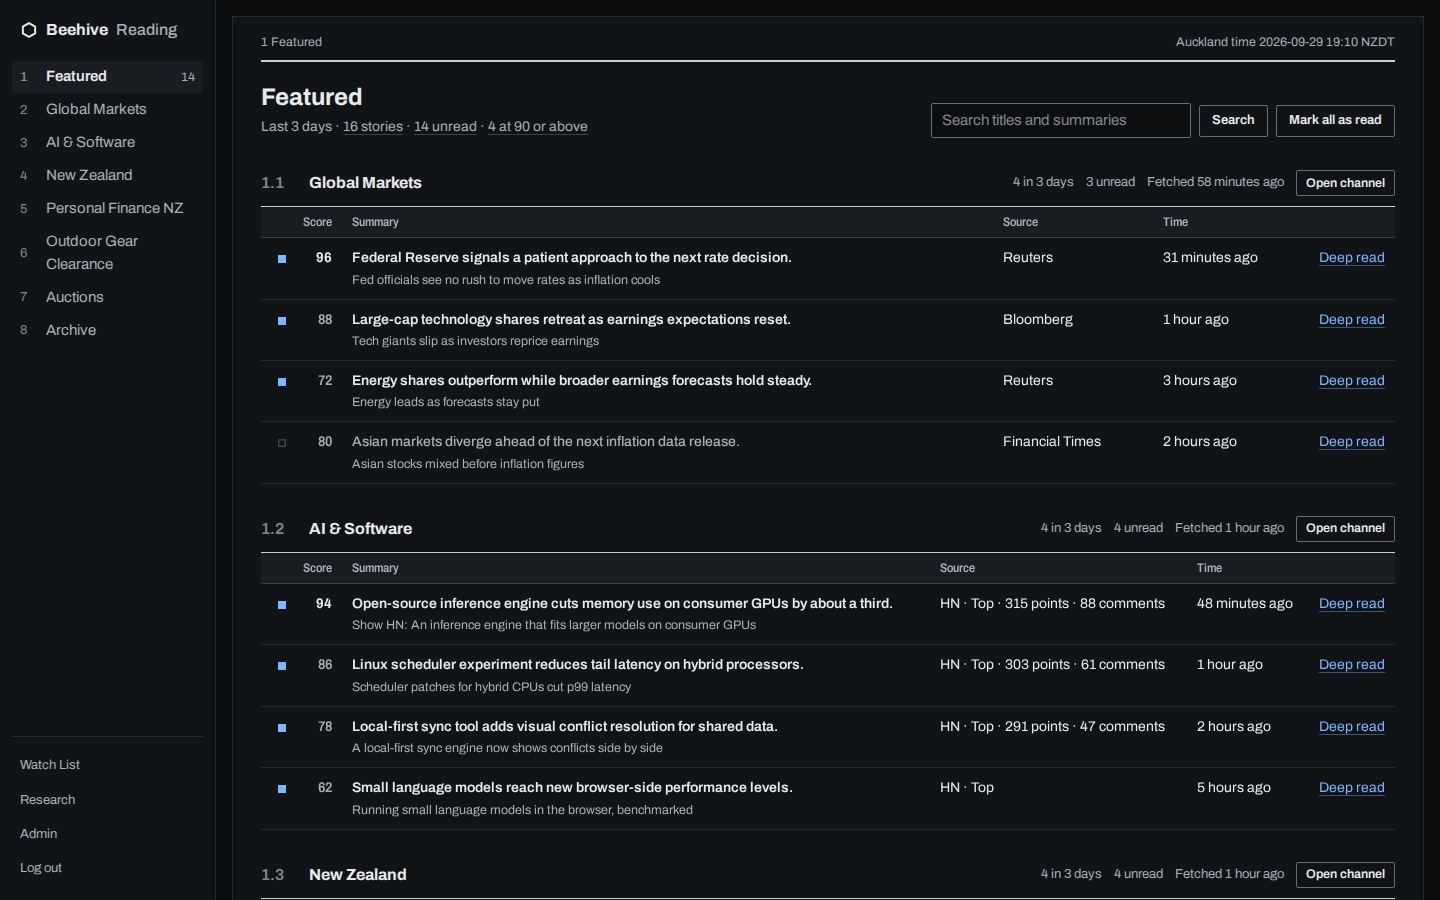
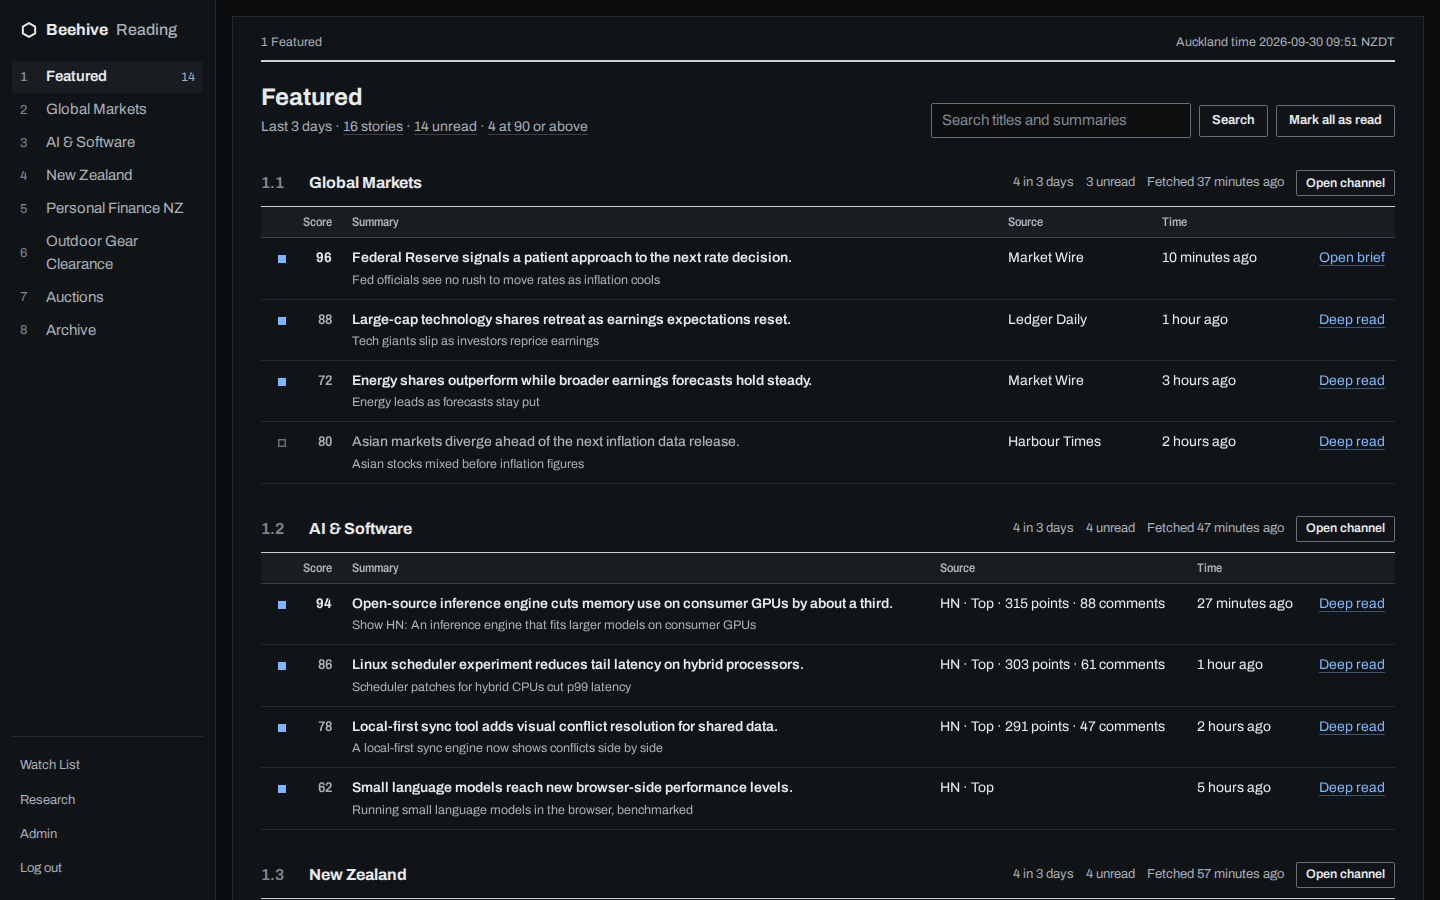
docs: show the new design in the README
A new hero and GitHub social preview in the datasheet design, with its source
in docs/assets/social-card.html. Fresh screenshots of the home desk, a
deep-read brief, a store catalogue and the 2560px layout, all from synthetic
data with fictional outlets. The changelog records the reading redesign and
the link previews and drops the column resizing the old home page had. Two
stray old-design screenshots leave the repository root.

Copilot-Session: 04e1fe32-c9ca-43b2-ac4e-99b35ceb2e0b

diff --git a/docs/assets/social-card.html b/docs/assets/social-card.html
@@ -1,0 +1,80 @@
+<!DOCTYPE html>
+<!-- The Beehive social card: a reading page set larger, styled by the site's own admin.css with
+     synthetic stories. Re-render both sizes from the repository root whenever the reading design
+     changes (see DESIGN.md, Brand Assets):
+
+       npx playwright@1.63.0-alpha-2026-08-05 screenshot --viewport-size="1280, 640" --wait-for-timeout=500 \
+         "file://$PWD/docs/assets/social-card.html" docs/assets/github-social-preview.png
+       npx playwright@1.63.0-alpha-2026-08-05 screenshot --viewport-size="1200, 630" --wait-for-timeout=500 \
+         "file://$PWD/docs/assets/social-card.html" src/beehive/web/static/social-card.png
+
+     The first is the README hero and the GitHub social preview, the second the site's og:image. -->
+<html lang="en">
+<head>
+<meta charset="UTF-8">
+<link rel="stylesheet" href="../../src/beehive/web/static/admin.css">
+<style>
+  /* The card is a real reading page, set larger: the rail, the running head, the page head with
+     the product's line as its h1, and the first channel section of the desk. */
+  html,body{height:100%;overflow:hidden}
+  .card .adm-shell{height:100vh;min-height:0;overflow:hidden}
+  .card .adm-toc{height:100vh}
+  .card .adm-main{overflow:hidden}
+  .card .adm-page{height:calc(100vh - 32px);overflow:hidden}
+  .card .adm-head{margin-top:18px}
+  .card h1{max-width:15.5em;font-size:52px;line-height:1.08;letter-spacing:-.022em;text-wrap:balance}
+  .card .lede{max-width:40em;margin-top:14px;color:var(--ink-2);font-size:19px;line-height:1.45}
+  .card .lede-meta{margin-top:8px;font-size:14px}
+  .card .desk-sec h2{margin-top:46px}
+</style>
+</head>
+<body class="adm page-reading card">
+<div class="adm-shell">
+  <aside class="adm-toc">
+    <span class="adm-brand"><svg viewBox="0 0 24 24" aria-hidden="true"><path d="M12 2.8 20.2 7.4v9.2L12 21.2 3.8 16.6V7.4Z"/></svg>Beehive<span>Reading</span></span>
+    <nav>
+      <ol class="toc">
+        <li><a aria-current="page"><span class="no">1</span><span>Featured</span><span><span class="toc-n">14</span></span></a></li>
+        <li><a><span class="no">2</span><span>Global Markets</span><span></span></a></li>
+        <li><a><span class="no">3</span><span>AI &amp; Software</span><span></span></a></li>
+        <li><a><span class="no">4</span><span>New Zealand</span><span></span></a></li>
+        <li><a><span class="no">5</span><span>Personal Finance NZ</span><span></span></a></li>
+        <li><a><span class="no">6</span><span>Outdoor Gear Clearance</span><span></span></a></li>
+        <li><a><span class="no">7</span><span>Auctions</span><span></span></a></li>
+        <li><a><span class="no">8</span><span>Archive</span><span></span></a></li>
+      </ol>
+    </nav>
+  </aside>
+  <main class="adm-main">
+    <div class="adm-page">
+      <div class="adm-run"><nav><span>1 Featured</span></nav><span>Self-hosted · MIT licensed</span></div>
+      <div class="adm-head">
+        <div>
+          <h1>Turn noisy feeds into a focused daily brief.</h1>
+          <p class="lede">Self-hosted intelligence for the topics you actually care about.</p>
+          <p class="adm-meta lede-meta">Interest-aware · AI-ranked · Concise</p>
+        </div>
+      </div>
+      <section class="desk-sec">
+        <h2><span class="no">1.1</span><span>Global Markets</span>
+          <span class="tools"><span class="desk-state nw">4 in 3 days</span><span class="desk-state nw">3 unread</span><span class="btn btn-sm">Open channel</span></span></h2>
+        <div class="tbl-wrap"><table class="tbl tbl-feed">
+          <thead><tr><th class="c-rd"></th><th class="c-score">Score</th><th>Summary</th><th>Source</th><th>Time</th><th class="c-ops"></th></tr></thead>
+          <tbody>
+            <tr><td class="c-rd"><span class="rd"></span></td><td class="c-score"><span class="score is-high">96</span></td>
+              <td class="c-sum"><a>Federal Reserve signals a patient approach to the next rate decision.</a><small>Fed officials see no rush to move rates as inflation cools</small></td>
+              <td class="c-src">Market Wire</td><td class="c-age">10 minutes ago</td><td class="c-ops"><div class="deep-read-action"><a class="deep-read-chip">Open brief</a></div></td></tr>
+            <tr><td class="c-rd"><span class="rd"></span></td><td class="c-score"><span class="score">88</span></td>
+              <td class="c-sum"><a>Large-cap technology shares retreat as earnings expectations reset.</a><small>Tech giants slip as investors reprice earnings</small></td>
+              <td class="c-src">Ledger Daily</td><td class="c-age">1 hour ago</td><td class="c-ops"><div class="deep-read-action"><a class="deep-read-chip">Deep read</a></div></td></tr>
+            <tr><td class="c-rd"><span class="rd"></span></td><td class="c-score"><span class="score">72</span></td>
+              <td class="c-sum"><a>Energy shares outperform while broader earnings forecasts hold steady.</a><small>Energy leads as forecasts stay put</small></td>
+              <td class="c-src">Market Wire</td><td class="c-age">3 hours ago</td><td class="c-ops"><div class="deep-read-action"><a class="deep-read-chip">Deep read</a></div></td></tr>
+          </tbody>
+        </table></div>
+      </section>
+    </div>
+  </main>
+</div>
+</body>
+</html>

diff --git a/README.md b/README.md
@@ -1,5 +1,5 @@
 <p align="center">
-  <img src="docs/assets/github-social-preview.png" alt="Beehive turns noisy feeds into a personal AI briefing" width="100%">
+  <img src="docs/assets/github-social-preview.png" alt="Beehive: turn noisy feeds into a focused daily brief. A dark reading page with a channel's top stories, ranked and scored." width="100%">
 </p>
 
 <p align="center">
@@ -18,7 +18,7 @@
 
 <table>
   <tr>
-    <td><strong>9 source families</strong><br><sub>News, communities, stores, and auctions</sub></td>
+    <td><strong>10 source families</strong><br><sub>News, communities, stores, and auctions</sub></td>
     <td><strong>Self-hosted</strong><br><sub>Your data and schedule</sub></td>
     <td><strong>SQLite</strong><br><sub>Simple operations</sub></td>
     <td><strong>MIT</strong><br><sub>Open source</sub></td>
@@ -29,17 +29,28 @@ Beehive collects updates from the sources you care about, ranks each item agains
 
 ## Product tour
 
+Every page shares one dark reading design: a contents rail of numbered chapters, a sheet whose
+sections carry their state in the heading, and banded tables where nothing is cut short.
+
 ### See what matters first
 
 Each channel ranks new items against your interests, then states the most useful supported conclusion in one sentence instead of merely describing the topic. The home page is a desk of every channel: each channel's state and its best few rows, with the top stories for news channels, the best live listings for store monitors, and the good auction lots still open. Stories come from a configurable Auckland calendar-day window, three days by default, falling back to fetch time when publication time is unavailable. The counts at the top open a ranked list of every featured story, filtered to all, unread, read, or 90 and above.
 
 <img src="docs/assets/dashboard-product.png" alt="Beehive home page: a desk of channels, each with its state and top synthetic stories" width="100%">
 
-> The previews use the default English interface. The global language setting also supports Simplified Chinese, Japanese, Korean, Spanish, French, and German.
+> The previews use synthetic data and the default English interface. The global language setting also supports Simplified Chinese, Japanese, Korean, Spanish, French, and German.
+
+### Built for big screens
+
+The sheet fills the window at any size, from a phone to a 4K monitor. On a wide screen, channel sections sit side by side, and a long list such as an archive day, a search result, or a store catalogue sets its rows in newspaper columns, with each row's source, time, price, and actions under its title.
+
+<img src="docs/assets/wide-screen.png" alt="Beehive home page at 2560 pixels wide: six channel sections in two columns, with news stories, store listings, and auction lots" width="100%">
 
 ### Read the evidence without leaving Beehive
 
 The owner can request an asynchronous AI deep read for any ranked item. Beehive safely fetches and extracts the stored article URL, then produces a cached 500–800 word brief with a bottom line, key findings, important figures, why it matters, and limitations. Partial or paywalled source material is labeled rather than presented as complete.
+
+<img src="docs/assets/deep-read-brief.png" alt="A deep-read brief: the bottom line, key findings, and why it matters, with important figures and the source beside the text" width="100%">
 
 ### Control every signal
 
@@ -60,6 +71,8 @@ The Channel workflow is selected at creation and remains immutable:
 Each connector explicitly declares which workflows it supports. The admin Source picker only shows
 compatible connectors, and persistence and collection reject incompatible combinations rather than
 silently treating every Channel the same.
+
+<img src="docs/assets/channel-monitor.png" alt="A store monitor channel: live listings with price, discount, AI score, and the reason each one matched" width="100%">
 
 ## How it works
 
@@ -333,6 +346,8 @@ and the always-on Research worker with its reconcile timer. See
 ## Privacy and indexing
 
 Beehive is designed for a personal dashboard. It sends `X-Robots-Tag: noindex, nofollow` and matching HTML metadata by default. Authentication protects administration and write actions, but deployment-level access control is still recommended if the read surface contains private interests or summaries.
+
+Staying out of search results does not stop link previews: reading pages carry Open Graph and Twitter card tags, so a shared link shows its title, a short description, and the Beehive card. A deep-read brief's preview uses its bottom line.
 
 Every Research Session route additionally requires an authenticated Owner session, including
 read-only views, so there is no public or unauthenticated route to a Research Session at all.

diff --git a/CHANGELOG.md b/CHANGELOG.md
@@ -62,6 +62,10 @@ and this project adheres to [Semantic Versioning](https://semver.org/spec/v2.0.0
   container still has no Copilot token, so the Research worker fetches the list within a few
   seconds and again every day. The row says when the list was fetched, and flags a refresh that
   failed or never started, or a saved model that is no longer offered.
+- Reading pages carry Open Graph and Twitter card tags with a social card image, so a shared
+  link previews with its title and description; a deep-read brief previews with its bottom line.
+  The pages still send `noindex, nofollow`. An Apple touch icon joins a favicon redrawn in the new
+  mark.
 
 ### Changed
 
@@ -76,6 +80,13 @@ and this project adheres to [Semantic Versioning](https://semver.org/spec/v2.0.0
   Removing a Source now asks for its name or shop domain instead of its connector type, and the
   activity log names Sources by their current label. The Chinese UI says 频道 instead of Channel.
   Old `?tab=ai` and `?tab=delivery` links still work.
+- The reading pages (home, channel pages, archive, search and deep-read briefs) and the Owner's
+  workspace (Research, Watch List) share the admin's dark datasheet design, and the old
+  `beehive.css` stylesheet is gone. The home page is a desk with a section per Channel. Every
+  page numbers its sections in the contents rail and states each one's count or state in its
+  heading. The sheet has no width cap: on wide screens sections sit side by side and long tables
+  set their rows in newspaper columns. The archive groups and filters by Auckland day, search
+  sorts each page of hits into a section per Channel, and `/channels/` redirects home.
 - Email Groups now consume actionable Channel events and may render mixed Editorial, Monitor, and
   Tracker sections without sending empty scheduled messages.
 - The digest timer now evaluates Email Group schedules and Research completion notifications every
@@ -91,7 +102,6 @@ and this project adheres to [Semantic Versioning](https://semver.org/spec/v2.0.0
   with an explicit warning about missing comments, edits, links, and truncated long posts.
 - Featured now ranks only content published during a configurable Auckland calendar-day window,
   defaulting to three days and falling back to fetch time when publication time is unavailable.
-- Featured table columns can be resized with pointer dragging or the keyboard.
 - The SQLite schema is versioned with `PRAGMA user_version`. `init_schema` only migrates a database
   that is behind and refuses one that a newer, incompatible release migrated; `--mode migrate` is
   the explicit release step.
